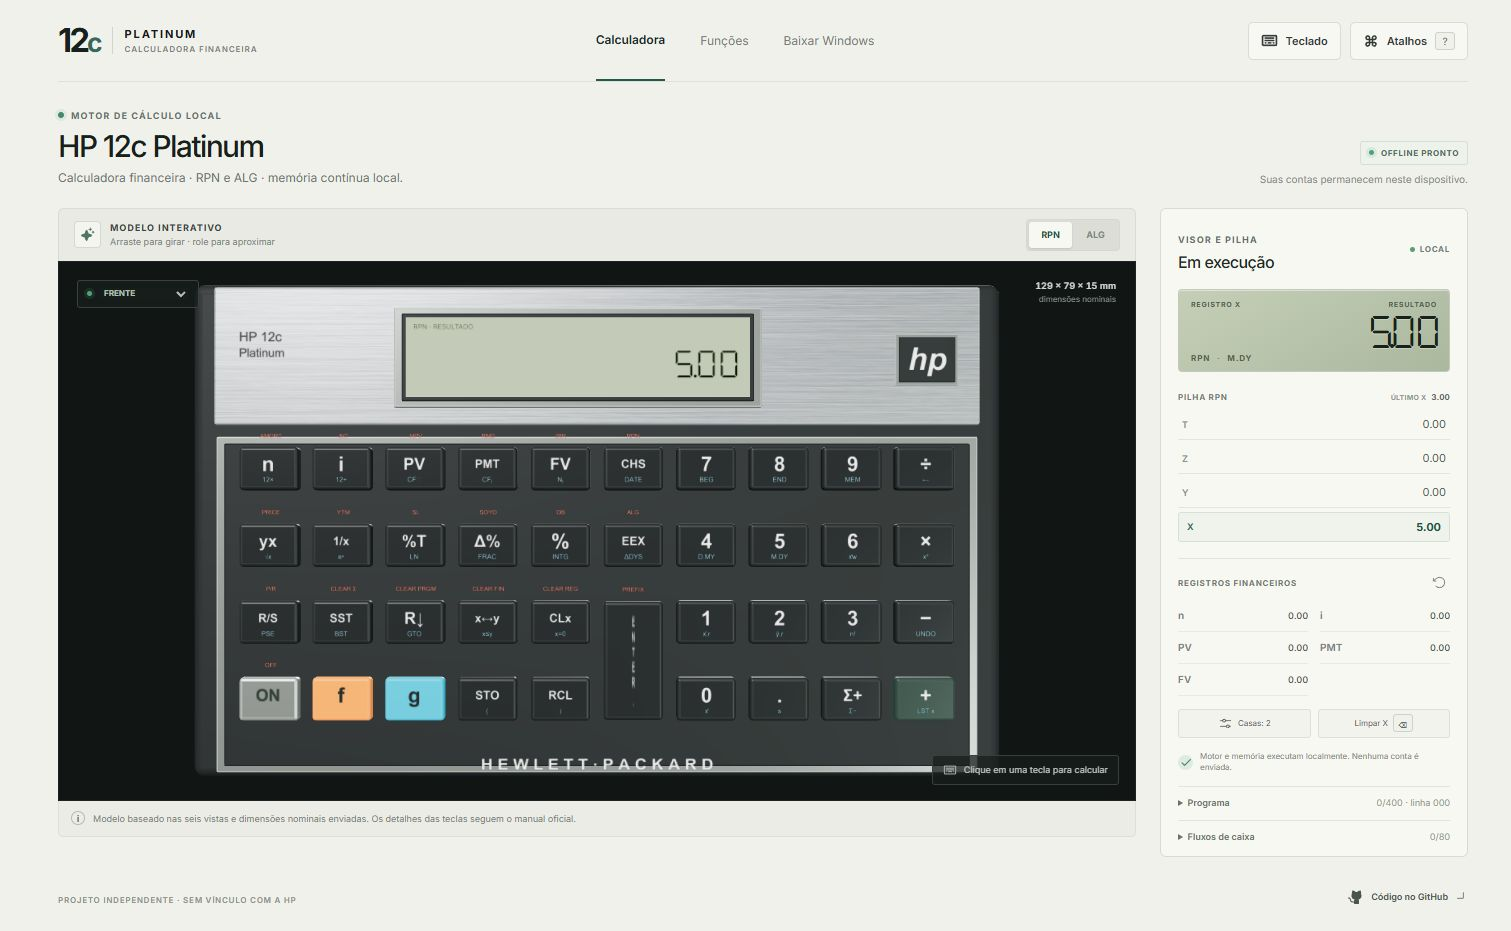
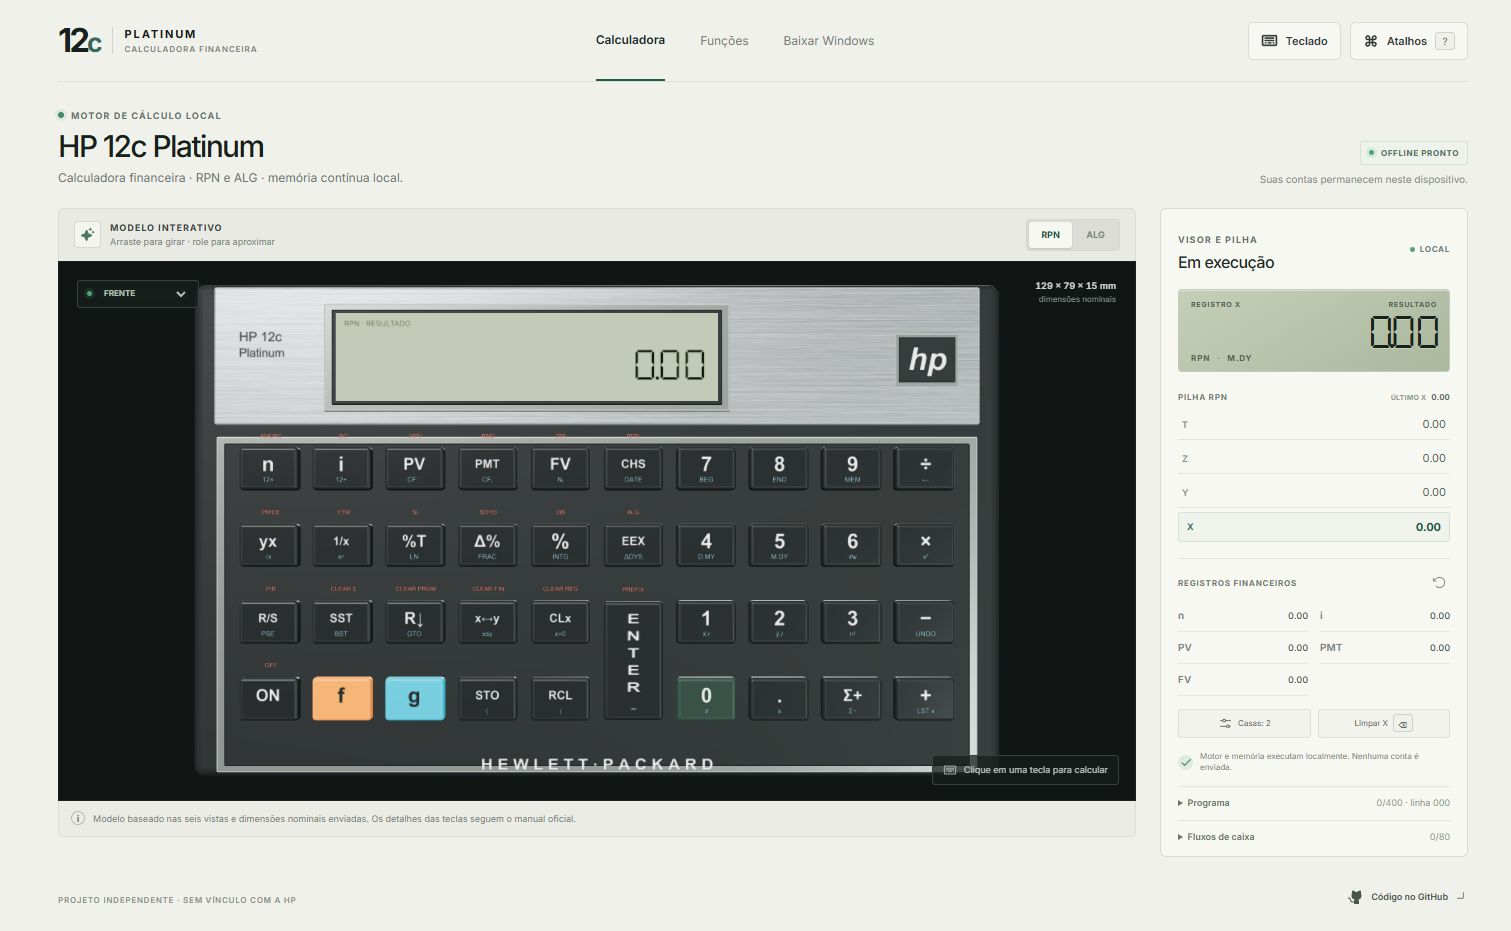
Document visual QA, offline verification and installed Windows 0.2.1 evidence

diff --git a/design-qa.md b/design-qa.md
@@ -1,0 +1,37 @@
+# Conferência visual e funcional
+
+Data: 30/09/2026. Versão do código: 0.2.1.
+
+**final result: passed** — interface web e modelo com dimensões nominais, dentro do escopo descrito abaixo. Este resultado não certifica a réplica física 1:1 nem todas as sequências possíveis do hardware.
+
+## Evidências
+
+- Comparação conjunta da fotografia frontal fornecida e da captura do aplicativo. Conferidas disposição das 39 teclas, ENTER vertical, funções f/g, corpo preto, placa metálica e LCD. Ajustados posição/largura do LCD, cor da tecla ON e proporção da legenda ENTER.
+- Modelo editável criado no Blender e exportado como glTF binário. Seis câmeras conferidas: frente, traseira, laterais, topo e base. Capturas em `qa/screenshots/`.
+- Limites exportados: 129,020 × 79,020 × 15,015 mm, dentro da tolerância de 0,1 mm em relação às dimensões nominais. Relatório: `model/measurements.json`.
+- Navegador: Edge no site real do GitHub Pages. Modelo, fontes e visor carregaram. Clique numa tecla 3D alterou X de 5 para 2. Entrada pelo teclado e pelos botões acessíveis utiliza o mesmo motor.
+- Guia **Atalhos** pesquisável: busca NPV mostrou PV, f NPV, g CF₀ e respectivos atalhos V, F1 V e F2 V. Botões acessíveis expõem as 39 teclas e suas funções. Modais mantêm foco e permitem fechar por Escape.
+- Layout conferido em desktop e 390 × 844 px. Largura do documento no teste compacto: 375 px, sem transbordamento horizontal. Modelo inteiro visível; visor/pilha aparecem abaixo dele.
+- PWA: corrigido conflito entre entradas duplicadas de precache. No Edge, a página foi recarregada com a rede desativada por CDP e abriu com o modelo; botões acessíveis calcularam `2 ENTER 3 +` = 5. Rede restaurada ao fim do teste. Evidência: `published-offline.png`.
+- Teclado do PC: financiamento de 250000, 300 períodos e 5,25% anual retornou PMT = −1498,12. Evidência: `financial-keyboard.png`.
+- ALG: expressão nova `2 + 3 × 4 =` retornou 14, preservado após recarregar a página. Evidência: `alg-persistence.png`.
+- 22 testes do motor passaram, cobrindo RPN, ALG, registradores, TVM, amortização, juros simples, fluxos/NPV/IRR, títulos, depreciação, estatística, calendário, matemática, erros, memória e programação. TypeScript sem erros. Quatro testes do empacotamento Sites também passaram.
+- GitHub Pages publicou com Actions. Instalador NSIS gerado nos Releases; sem assinatura de código, conforme o plano.
+
+## Correções realizadas na revisão
+
+Resolvidos carregamento do LCD, orientação dos rótulos traseiros, exceção de carregamento 3D em StrictMode, enquadramento em telas estreitas, cache offline, prefixos em recuperação de fluxos, agrupamento de STO/RCL em uma linha de programa, códigos físicos do visor de programação e limpeza de entradas numéricas incompletas.
+
+Nenhum bloqueio visual P0/P1/P2 permanece no escopo funcional e nominal descrito acima.
+
+## Limites e critérios ainda não certificados
+
+- A prancha fornecida apresenta medidas externas nominais e ilustrações. Não contém medidas individuais do LCD, moldura e teclas nem fotografias reais nítidas de todas as faces. Essas proporções foram inferidas; a validação física 1:1 permanece pendente das referências combinadas com o usuário.
+- A traseira contém um guia próprio legível, pois as inscrições da prancha não permitem transcrição confiável. Acabamento, tipografia e detalhes de fabricação são aproximações.
+- A suíte compara exemplos e invariantes, incluindo exemplos do manual. Não constitui certificação exaustiva de comportamento idêntico ao firmware HP em qualquer sequência.
+- A inspeção visual foi feita no navegador. A verificação Windows registra instalação, versão instalada, inicialização e janela respondendo; os controles internos da janela nativa não foram inspecionados visualmente, pois controle de aplicativos nativos está indisponível nesta sessão.
+
+## Windows
+
+Instalação e atualização para 0.2.1 concluídas com código de saída zero. Versão 0.2.1 confirmada no registro de desinstalação; processo hp12c-platinum respondendo, com janela HP 12c Platinum e atalho no Menu Iniciar. Hash do arquivo baixado coincide com o digest do GitHub. Resultado completo em `qa/windows-verification.json`.
+
